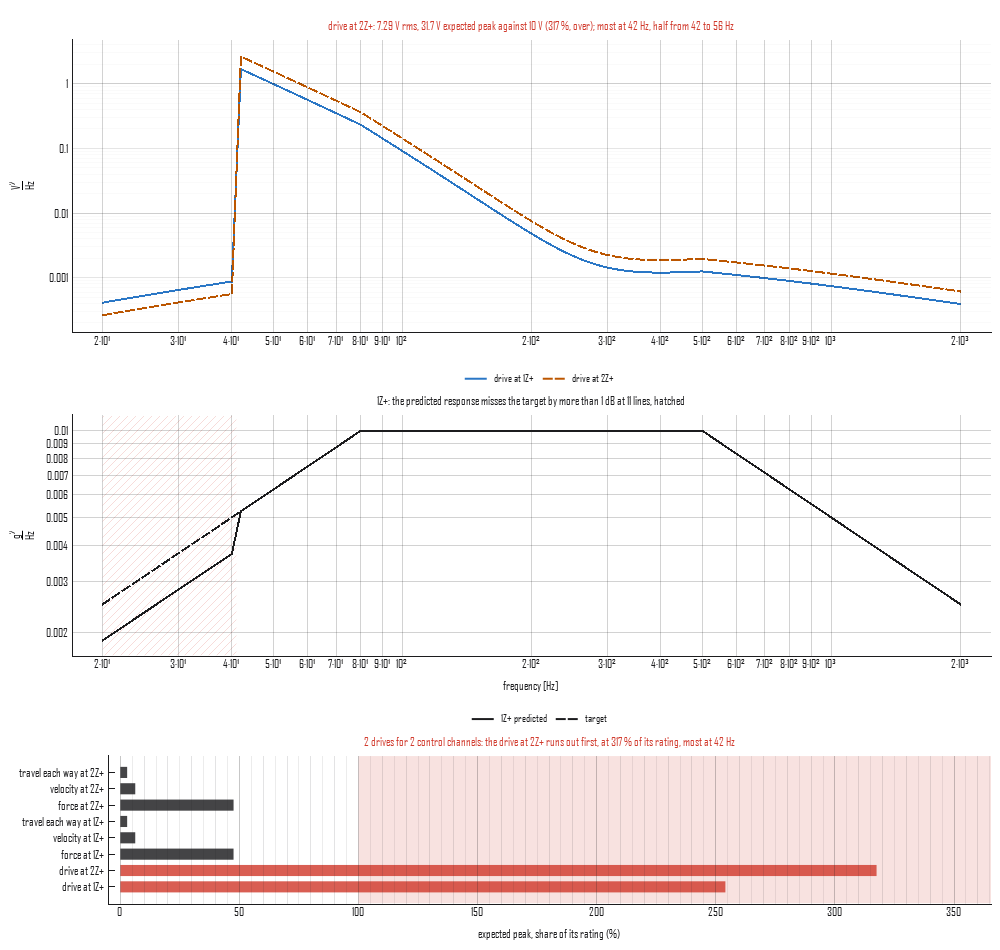
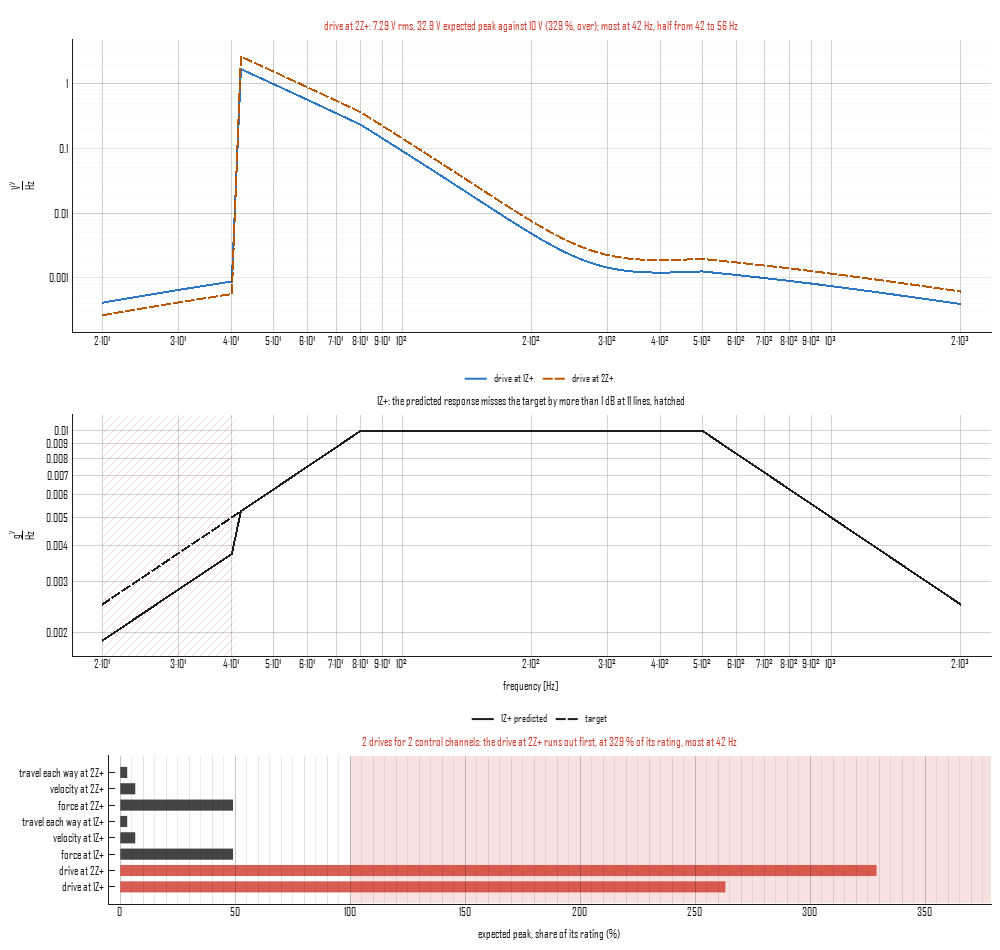
Drive prediction: the largest peak of either sign, dead channels and a not-a-number record named, progress told
Twenty runs of simulated noise at the predicted drive reached a largest
peak of either sign 3 percent over the expected peak, which counted
crossings one way. A limit and a stroke each way are reached by either
sign, so the crossings are now counted both ways, and the runs' mean
sits on the expected peak. A drive that reaches no control channel and
a control channel no drive reaches are named; a refusal or note for an
FRF that is not a number names the record. Checked too against an FRF
measured from noisy records under the default Hann window, starting
40 s in, to the first and last lines of the band.

diff --git a/src/visualdynamics/core/drive_prediction.py b/src/visualdynamics/core/drive_prediction.py
@@ -54,8 +54,11 @@ Every quantity is a Gaussian random signal with a predicted
 autospectrum, so its rms is the root of the area under it
 (`compliance.rms`) and its expected largest peak over a run of
 `duration` seconds is the rms times the Gaussian peak factor
-sqrt(2 ln(nu0 T)), with nu0 its own crossing rate by Rice's formula
-(`time_statistics.rice_rate` and `expected_largest_peak`). A stated
+sqrt(2 ln(2 nu0 T)), with nu0 its own crossing rate by Rice's formula
+(`time_statistics.rice_rate` and `expected_largest_peak`), counted both
+ways: a rating is reached by a peak of either sign, the drive's limit
+and the travel each way alike, so the largest of either sign is the
+one judged. A stated
 `peak_factor` replaces that, for a controller that clips its drive at
 a set multiple of the rms. Each quantity is judged on its peak:
 
@@ -102,12 +105,13 @@ regularized inverse is Tikhonov's, in the form Hansen sets out.
 
 from __future__ import annotations
 
-from collections.abc import Mapping
+from collections.abc import Callable, Mapping
 from dataclasses import dataclass, field
 from typing import TYPE_CHECKING, Any
 
 import numpy as np
 
+from .progress import Ticker
 from .shaker import ShakerRating
 
 if TYPE_CHECKING:                                    # pragma: no cover
@@ -130,8 +134,8 @@ TIKHONOV = 1e-3
 
 #: how long the run lasts, in seconds, for the expected largest peak:
 #: a minute, a common duration for a random test at full level. The
-#: peak grows slowly with it (about 4.7 standard deviations over a
-#: minute at a thousand crossings a second, 5.5 over an hour)
+#: peak grows slowly with it (about 4.9 standard deviations over a
+#: minute at a thousand crossings a second either way, 5.7 over an hour)
 DURATION = 60.0
 
 #: how far the control channels' predicted autospectrum may sit from
@@ -142,11 +146,12 @@ UNMET_DB = 1.0
 #: the share of a quantity's mean square its dominant band holds
 DOMINANT_SHARE = 0.5
 
-# Made on 2026-10-24 for the drive and response prediction, the open-loop
-# kernel the limit, notch and multi-input report work build on. The
-# matrix assembly below mirrors the shape of the FRF and spectral matrix
-# builders proposed beside the conditioning check; when those land on
-# main, `_plant` and the channel keys here become calls to them.
+# The matrix assembly below (`_labels`, `_plant`, `runs`) mirrors the
+# FRF matrix builder, the channel labels and the flagged runs proposed
+# beside the conditioning check (`matrix_checks.frf_matrix`, `_labels`,
+# `flagged_runs`). They stay here until those land: `_plant` keys a
+# channel by its declared dimension and refuses one that is not, and
+# `runs` gives line indices where `flagged_runs` gives frequencies.
 
 
 # ---- the inverse ------------------------------------------------------------
@@ -456,7 +461,11 @@ def _gaussian(frequency: np.ndarray, density: np.ndarray, duration: float,
         return 0.0, 0.0, 0.0
     if peak_factor is None:
         usable = np.where(np.isfinite(density), density, 0.0)
-        factor = expected_largest_peak(rice_rate(frequency, usable), duration)
+        # both ways: the largest peak of either sign, which is what a
+        # limit or a stroke each way is reached by. Counted one way, the
+        # peak read about 3 percent under what simulated noise reaches
+        factor = expected_largest_peak(2.0 * rice_rate(frequency, usable),
+                                       duration)
     else:
         factor = float(peak_factor)
     return level, level * factor, factor
@@ -774,7 +783,9 @@ def predict_drives(frf: Frf, specification: Psd, *,
                    tables: Mapping[str, str] | None = None,
                    limits: Mapping[str, float] | None = None,
                    duration: float = DURATION,
-                   peak_factor: float | None = None) -> DrivePrediction:
+                   peak_factor: float | None = None,
+                   progress: Callable[[int, int], None] | None = None
+                   ) -> DrivePrediction:
     """The drives that would make the specification at its control
     channels through this FRF, the responses they would make at every
     channel the FRF holds, and what they ask of the amplifiers and the
@@ -831,6 +842,10 @@ def predict_drives(frf: Frf, specification: Psd, *,
     peak_factor : float, optional
         A stated peak over rms for every quantity, in place of the
         expected largest peak.
+    progress : callable, optional
+        Told ``(done, total)`` as the stages finish (the plant read, its
+        inverse, the drives and responses, the demands); what it raises
+        stops the prediction. The app's progress bar uses it.
 
     Returns
     -------
@@ -875,6 +890,8 @@ def predict_drives(frf: Frf, specification: Psd, *,
     regularized_inverse(np.zeros((0, 1, 1)), method=method,
                         tolerance=tolerance, weight=weight)
 
+    ticker = Ticker(progress)
+    ticker.add(4)
     rows, columns, matrix, filled = _plant(frf)
     row_labels = _labels(rows)
     drive_labels = _labels(columns)
@@ -905,16 +922,33 @@ def predict_drives(frf: Frf, specification: Psd, *,
         raise ValueError('the specification and the FRF share no line '
                          'where both are written')
     nan_lines = int((written & (f > 0.0) & ~finite).sum())
+    where = _not_a_number(frf)
     if not judged.any():
         raise ValueError('the FRF is not a number at every line the '
-                         'specification is written over')
+                         f'specification is written over, first at {where}')
     if nan_lines:
         notes.append(f'{nan_lines} line{"s" * (nan_lines != 1)} where the '
-                     'FRF is not a number not predicted')
+                     f'FRF is not a number not predicted, first at {where}')
+    ticker.tick()
+    ticker.busy()
     gains = np.linalg.svd(plant[judged], compute_uv=False)
     if not gains.max() > 0.0:
         raise ValueError('the FRF is zero at every line the specification '
                          'is written over: the drives reach nothing')
+    # a drive that reaches no control channel, or a control channel no
+    # drive reaches, is a dead channel: named, since the inverse sets
+    # its direction aside without a word otherwise
+    reached = np.abs(plant[judged]).max(axis=0)
+    for c in range(len(columns)):
+        if not reached[:, c].any():
+            notes.append(f'the drive {drive_labels[c]} reaches no control '
+                         'channel at any line: it is predicted to do '
+                         'nothing')
+    for k, r in enumerate(control_index):
+        if not reached[k].any():
+            notes.append(f'no drive reaches the control channel '
+                         f'{row_labels[r]} at any line: its target cannot '
+                         'be met')
     with np.errstate(divide='ignore', invalid='ignore'):
         condition = np.full(len(f), np.nan)
         condition[judged] = gains[:, 0] / gains[:, -1]
@@ -928,6 +962,7 @@ def predict_drives(frf: Frf, specification: Psd, *,
     kept = np.zeros(len(f), dtype=int)
     inverse[judged], kept[judged] = regularized_inverse(
         plant[judged], method=method, tolerance=tolerance, weight=weight)
+    ticker.tick()
     drive_csd = np.full((len(f), len(columns), len(columns)), np.nan,
                         dtype=np.complex128)
     drive_csd[judged] = through(inverse[judged], target[judged])
@@ -938,6 +973,7 @@ def predict_drives(frf: Frf, specification: Psd, *,
     asd[:, ~complete] = np.nan
     control = responses[:, control_index][:, :, control_index]
     target = np.where(judged[:, None, None], target, np.nan)
+    ticker.tick()
 
     if len(columns) > len(controls):
         notes.append('more drives than control channels: of the drives '
@@ -965,7 +1001,17 @@ def predict_drives(frf: Frf, specification: Psd, *,
     demands = _demands(prediction, rows, columns, drive_limit, shakers,
                        tables, limits)
     prediction.demands.extend(demands)
+    ticker.tick()
     return prediction
+
+
+def _not_a_number(data: Any) -> str | None:
+    """Where a spectrum first holds a value that is not a number, as the
+    record's label, or None when it holds none."""
+    bad = ~np.isfinite(np.asarray(data.ordinate)).all(axis=1)
+    if not bad.any():
+        return None
+    return str(data.record_label(int(np.flatnonzero(bad)[0])))
 
 
 def _demands(prediction: DrivePrediction, rows: list[tuple[str, str]],

diff --git a/tests/test_drive_prediction.py b/tests/test_drive_prediction.py
@@ -224,15 +224,16 @@ def test_the_drive_rms_and_peak_are_worked_by_hand():
 
 def test_the_expected_peak_follows_the_crossing_rate_and_the_duration():
     """A flat band from 20 to 2000 Hz crosses its mean about
-    sqrt((f2^3 - f1^3) / (3 (f2 - f1))) = 1,156 times a second; over a
-    minute the expected largest peak is sqrt(2 ln(1156 x 60)) = 4.72
-    standard deviations, over an hour 5.55."""
+    sqrt((f2^3 - f1^3) / (3 (f2 - f1))) = 1,156 times a second each
+    way; over a minute the expected largest peak of either sign is
+    sqrt(2 ln(2 x 1156 x 60)) = 4.87 standard deviations, over an hour
+    5.68."""
     rate = math.sqrt((2000.0 ** 3 - 20.0 ** 3) / (3 * 1980.0))
     for duration in (DURATION, 3600.0):
         prediction = predict_drives(siso_frf(f=lines(0.5)), flat_spec(),
                                     duration=duration)
         drive = prediction.demands[0]
-        factor = math.sqrt(2.0 * math.log(rate * duration))
+        factor = math.sqrt(2.0 * math.log(2.0 * rate * duration))
         assert drive.peak / drive.rms == pytest.approx(factor, rel=2e-3)
 
 
@@ -306,7 +307,7 @@ def test_a_line_where_the_frf_is_not_a_number_is_left_out_and_said():
     k = at(prediction, 100.0)
     assert not prediction.judged[k]
     assert np.isnan(prediction.drive_asd(0)[k])
-    assert '1 line where the FRF is not a number not predicted' in \
+    assert '1 line where the FRF is not a number not predicted, first at 1Z+/1Z+' in \
         prediction.notes
     # the line adds nothing to the rms: 396 lines of 5 Hz
     assert prediction.demands[0].rms == pytest.approx(
@@ -880,3 +881,123 @@ def test_a_dof_holding_two_channels_has_to_be_named_in_full():
               ordinate_dim=['acceleration/voltage', 'force/voltage'])
     _refused('a limit is given at 1Z\\+, which is not a channel', frf=frf,
              limits={'1Z+': 10.0})
+
+
+# ---- dead channels, a measured FRF at the edges, the peaks against noise -----
+
+
+def test_a_dead_drive_and_a_dead_control_channel_are_named():
+    dead_drive = predict_drives(matrix_frf([[1.0, 0.0], [0.5, 0.0]]),
+                                matrix_spec(TARGET))
+    assert ('the drive 2Z+ reaches no control channel at any line: it is '
+            'predicted to do nothing') in dead_drive.notes
+    dead_control = predict_drives(matrix_frf([[1.0, 0.5], [0.0, 0.0]]),
+                                  matrix_spec(TARGET))
+    assert ('no drive reaches the control channel 2Z+ at any line: its '
+            'target cannot be met') in dead_control.notes
+    assert dead_control.unmet.any()
+
+
+def test_an_frf_from_a_record_with_one_nan_sample_is_refused_by_name():
+    from visualdynamics.core.averaging import Averaging
+    from visualdynamics.core.data import TimeHistory
+
+    rng = np.random.default_rng(31)
+    fs, n = 4096.0, 2 ** 15
+    drive = rng.standard_normal(n)
+    response = 2.0 * G * drive
+    response[400] = np.nan
+    history = TimeHistory(np.arange(n) / fs, np.vstack([drive, response]),
+                          response_dof=['1Z+', '2Z+'],
+                          ordinate_dim=['voltage', 'acceleration'])
+    history.averaging = Averaging(frame_length=1024, overlap=0.5).filled(
+        n, fs)
+    frf = history.compute_frfs(references=['1Z+'])
+    with pytest.raises(ValueError, match=r'not a number at every line the '
+                                         r'specification is written over, '
+                                         r'first at 2Z\+/1Z\+'):
+        predict_drives(frf, flat_spec(dof='2Z+'))
+
+
+def test_a_measured_frf_under_hann_predicts_the_drive_to_the_edges():
+    """A plant estimated from records with noise on the drive and on the
+    response, under the default Hann window, from a record that starts
+    40 s in: the drive predicted for a flat target is the target over
+    the true plant squared at every line of the band, its first and its
+    last included, to the estimate's own scatter."""
+    from visualdynamics.core.averaging import Averaging
+    from visualdynamics.core.data import TimeHistory
+
+    rng = np.random.default_rng(32)
+    fs, n = 4096.0, 2 ** 18
+    drive = rng.standard_normal(n)
+    # a plant of 2 g/V with a one-sample delay: a phase that turns
+    # across the band, the magnitude flat
+    response = 2.0 * G * np.roll(drive, 1)
+    measured_drive = drive + 0.05 * rng.standard_normal(n)
+    measured_response = response + 0.05 * 2.0 * G * rng.standard_normal(n)
+    history = TimeHistory(40.0 + np.arange(n) / fs,
+                          np.vstack([measured_drive, measured_response]),
+                          response_dof=['1Z+', '2Z+'],
+                          ordinate_dim=['voltage', 'acceleration'])
+    history.averaging = Averaging(frame_length=1024, overlap=0.5).filled(
+        n, fs)
+    assert history.averaging.window == 'hann'
+    frf = history.compute_frfs(references=['1Z+'])
+    response_row = [i for i in range(frf.num_records)
+                    if frf.response_dof[i] == '2Z+']
+    plant = Frf(frf.abscissa, frf.ordinate[response_row],
+                response_dof=['2Z+'], reference_dof=['1Z+'],
+                ordinate_dim=['acceleration/voltage'])
+    prediction = predict_drives(plant, flat_spec(dof='2Z+'))
+    f = prediction.frequency
+    band = (f >= BAND[0]) & (f <= BAND[1])
+    assert prediction.judged[band].all() and not prediction.judged[~band].any()
+    drive_asd = prediction.drive_asd(0)
+    edges = [int(np.flatnonzero(band)[0]), int(np.flatnonzero(band)[-1])]
+    assert f[edges[0]] == 20.0 and f[edges[1]] == 2000.0
+    expected = LEVEL / 2.0 ** 2
+    np.testing.assert_allclose(drive_asd[band], expected, rtol=0.03)
+    np.testing.assert_allclose(drive_asd[edges], expected, rtol=0.03)
+    assert not prediction.unmet.any()
+
+
+def test_the_expected_largest_peak_holds_against_simulated_noise():
+    """The peak a drive is judged on, checked against what Gaussian
+    noise does: twenty runs of the predicted drive, band-limited white
+    noise of the predicted rms over the default duration, and the mean
+    of their largest peaks of either sign against the expected largest
+    peak. Counted one way, the expected peak sat 3 percent under the
+    runs' mean; counted both ways it sits on it."""
+    prediction = predict_drives(siso_frf(), flat_spec())
+    drive = next(d for d in prediction.demands if d.kind == 'drive')
+    fs = 8192.0
+    n = int(fs * DURATION)
+    f = np.fft.rfftfreq(n, 1.0 / fs)
+    band = (f >= BAND[0]) & (f <= BAND[1])
+    peaks = []
+    for seed in range(20):
+        rng = np.random.default_rng(400 + seed)
+        z = np.fft.rfft(rng.standard_normal(n))
+        z[~band] = 0.0
+        x = np.fft.irfft(z, n)
+        x *= drive.rms / np.std(x)
+        peaks.append(np.max(np.abs(x)))
+    assert np.mean(peaks) == pytest.approx(drive.peak, rel=0.03)
+    assert max(peaks) < 1.25 * drive.peak
+
+
+def test_progress_is_told_and_a_raise_in_it_stops_the_prediction():
+    told = []
+    predict_drives(siso_frf(), flat_spec(),
+                   progress=lambda done, total: told.append((done, total)))
+    assert told[-1] == (4, 4)
+
+    class Stop(Exception):
+        pass
+
+    def stop(_done, _total):
+        raise Stop
+
+    with pytest.raises(Stop):
+        predict_drives(siso_frf(), flat_spec(), progress=stop)

diff --git a/docs/guide/drive-prediction.md b/docs/guide/drive-prediction.md
@@ -67,8 +67,10 @@ channels.
 Each quantity is Gaussian random with a predicted autospectrum, so its
 rms is the root of the area under it and its expected largest peak over
 a run of `duration` seconds (a minute by default) is the rms times
-`sqrt(2 ln(ν₀ T))`, with ν₀ its own crossing rate by Rice's formula,
-from [the time statistics](time-statistics.md). A stated `peak_factor`
+`sqrt(2 ln(2 ν₀ T))`, with ν₀ its own crossing rate by Rice's formula,
+from [the time statistics](time-statistics.md): the largest peak of
+either sign, since a limit or a stroke each way is reached by either.
+A stated `peak_factor`
 replaces that, for a controller that clips its drive at a set multiple
 of the rms. Each quantity is judged on its peak:
 
@@ -133,8 +135,8 @@ against each other through a stiff fixture. The default inverse sets
 that direction aside up to 40 Hz, where the autospectra come out
 1.2 to 1.3 dB under the target (the reading names 20 to 40 Hz), and keeps it just
 above, where it costs dearly: the drives peak at 42 Hz, the second at
-7.29 V rms and 31.7 V expected, 317 % of its limit. Everything else is
-easy. The force is 951 lbf expected, 48 % of its rating, most of it at
+7.29 V rms and 32.9 V expected, 329 % of its limit. Everything else is
+easy. The force is 980 lbf expected, 49 % of its rating, most of it at
 the fixture mode; the velocity is 6 % and the travel 3 % of theirs.
 
 ![Two drives on one fixture: the drive spectra jumping up above 40 Hz,
@@ -146,8 +148,8 @@ and travel small](images/drive-prediction.png)
 
 At a tolerance of 0.1 (a condition number of 10) the weak direction is
 set aside up to 122 Hz and through the fixture mode at 386 to 418 Hz,
-where the other direction is the weak one. The drives come down to 77 %
-and 94 % of their limit, and the target is short through those bands.
+where the other direction is the weak one. The drives come down to 79 %
+and 97 % of their limit, and the target is short through those bands.
 That is the choice the reading puts in front of the engineer: ask the
 fixture for less difference between the two points at low frequency, or
 pay for it in drive, or accept the shortfall; none of it is a setting
